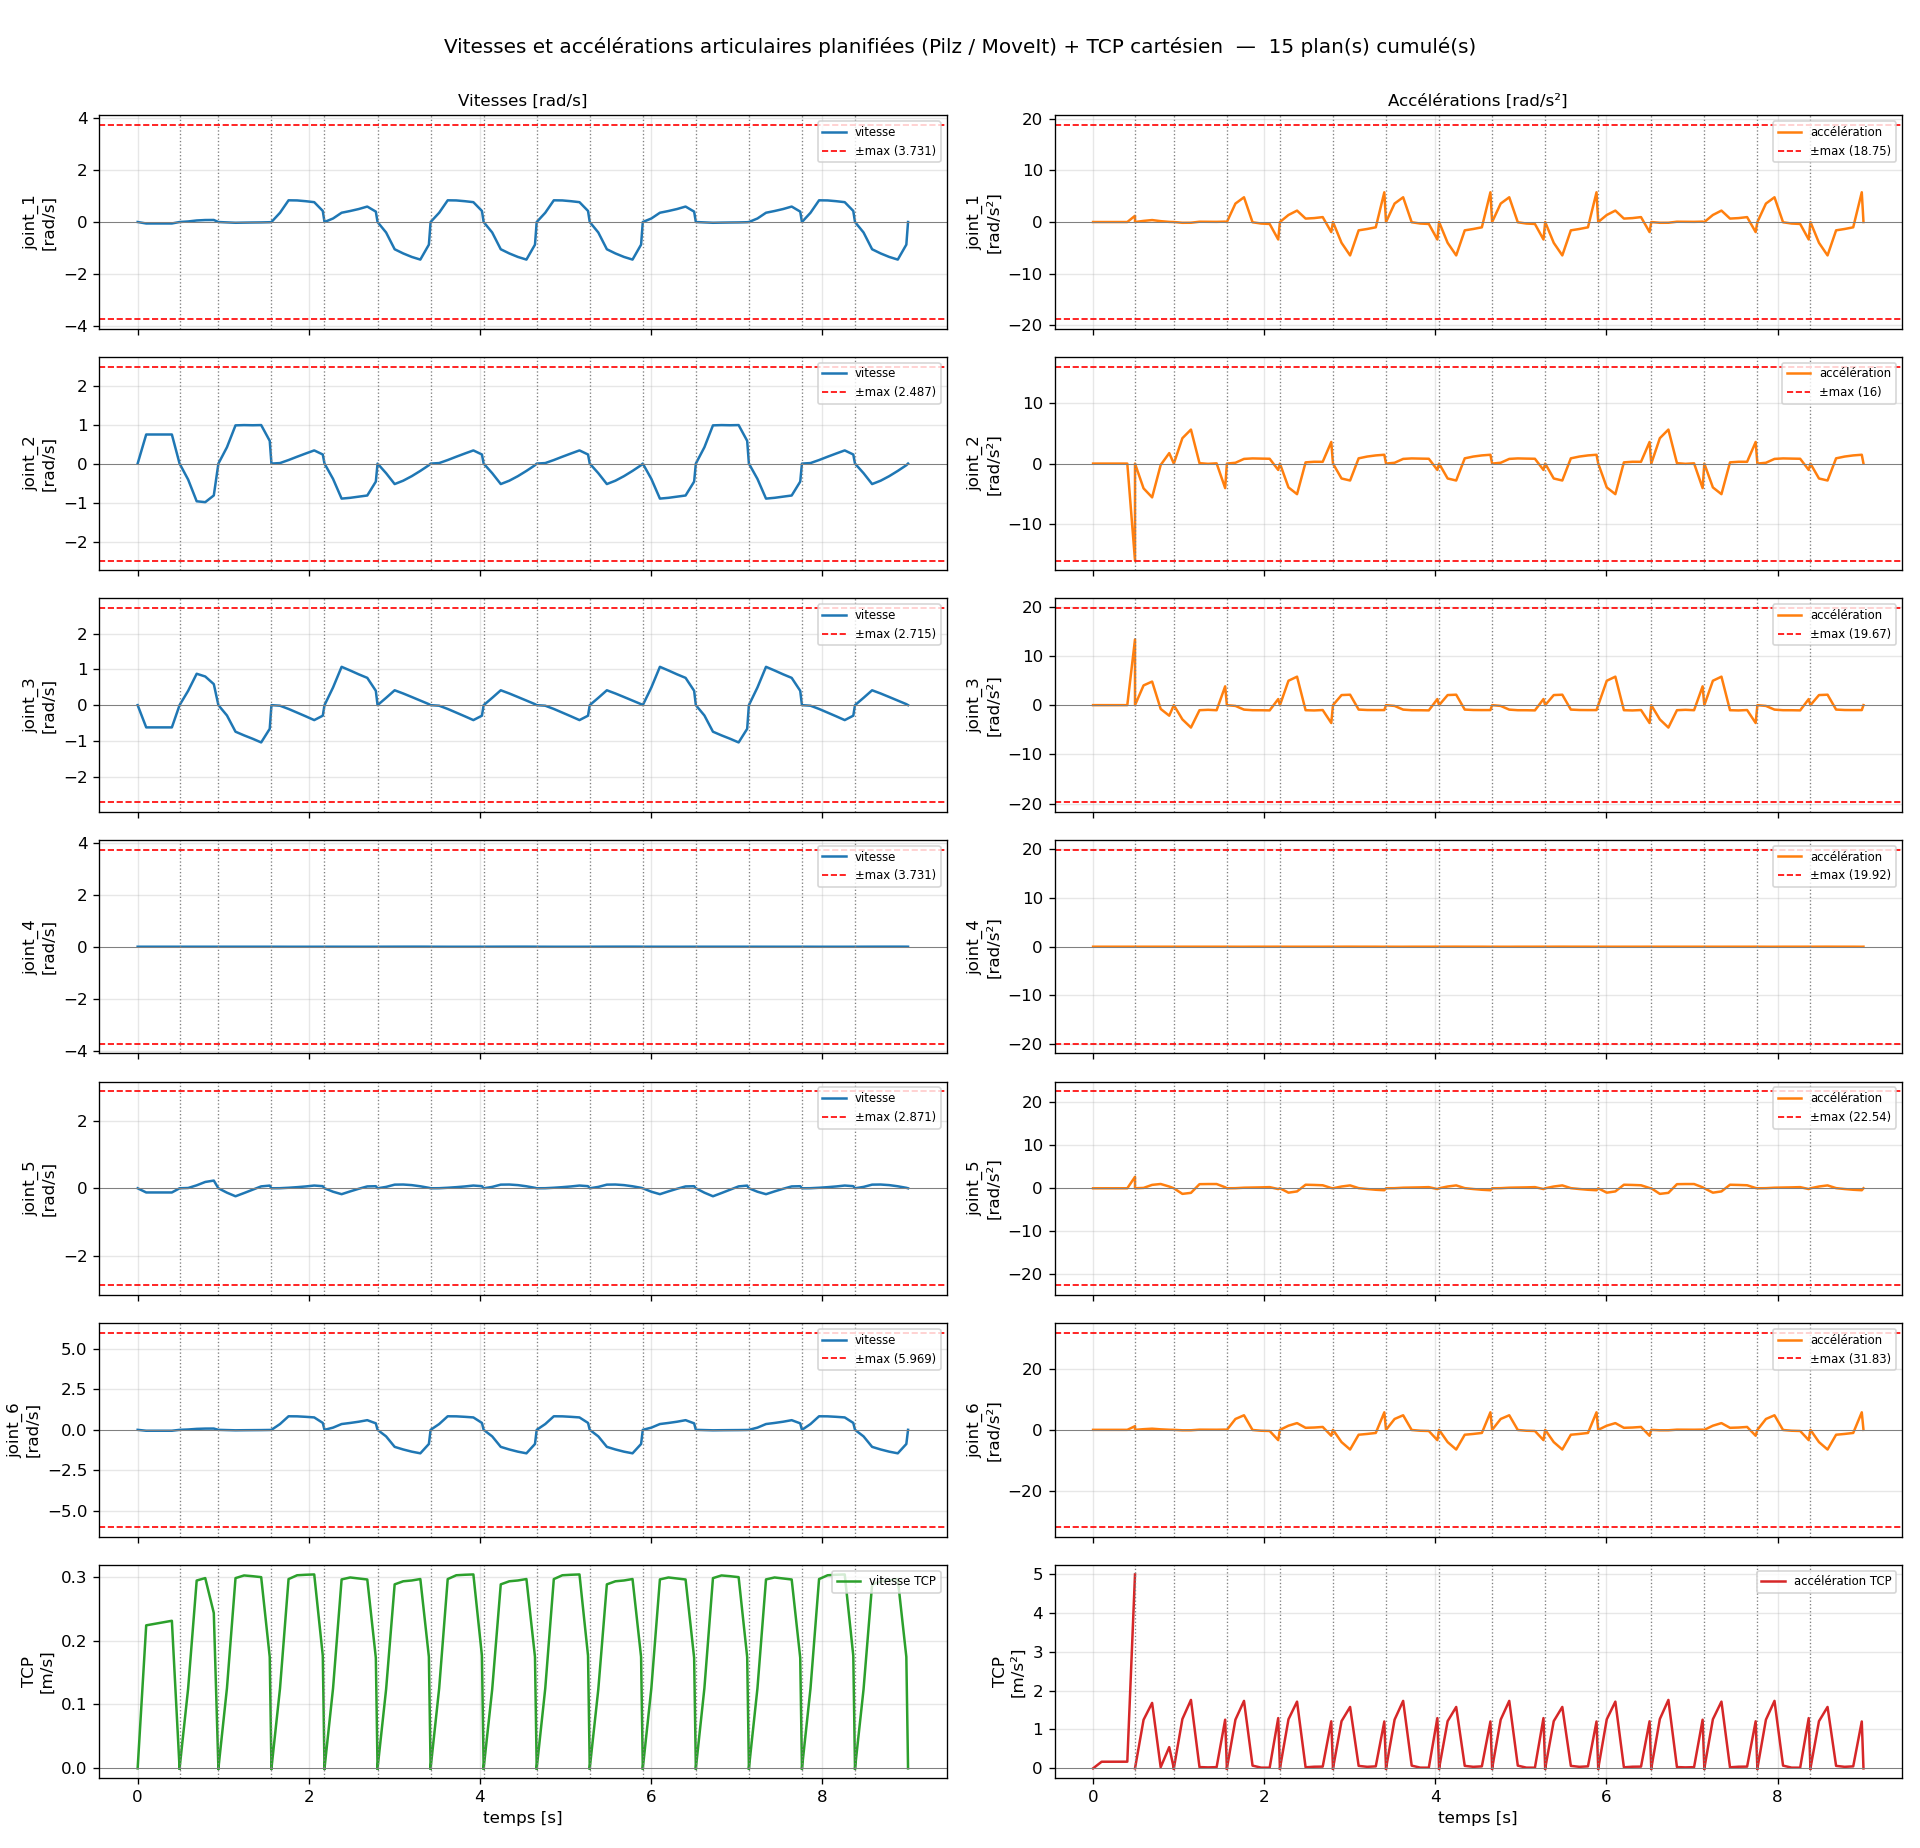
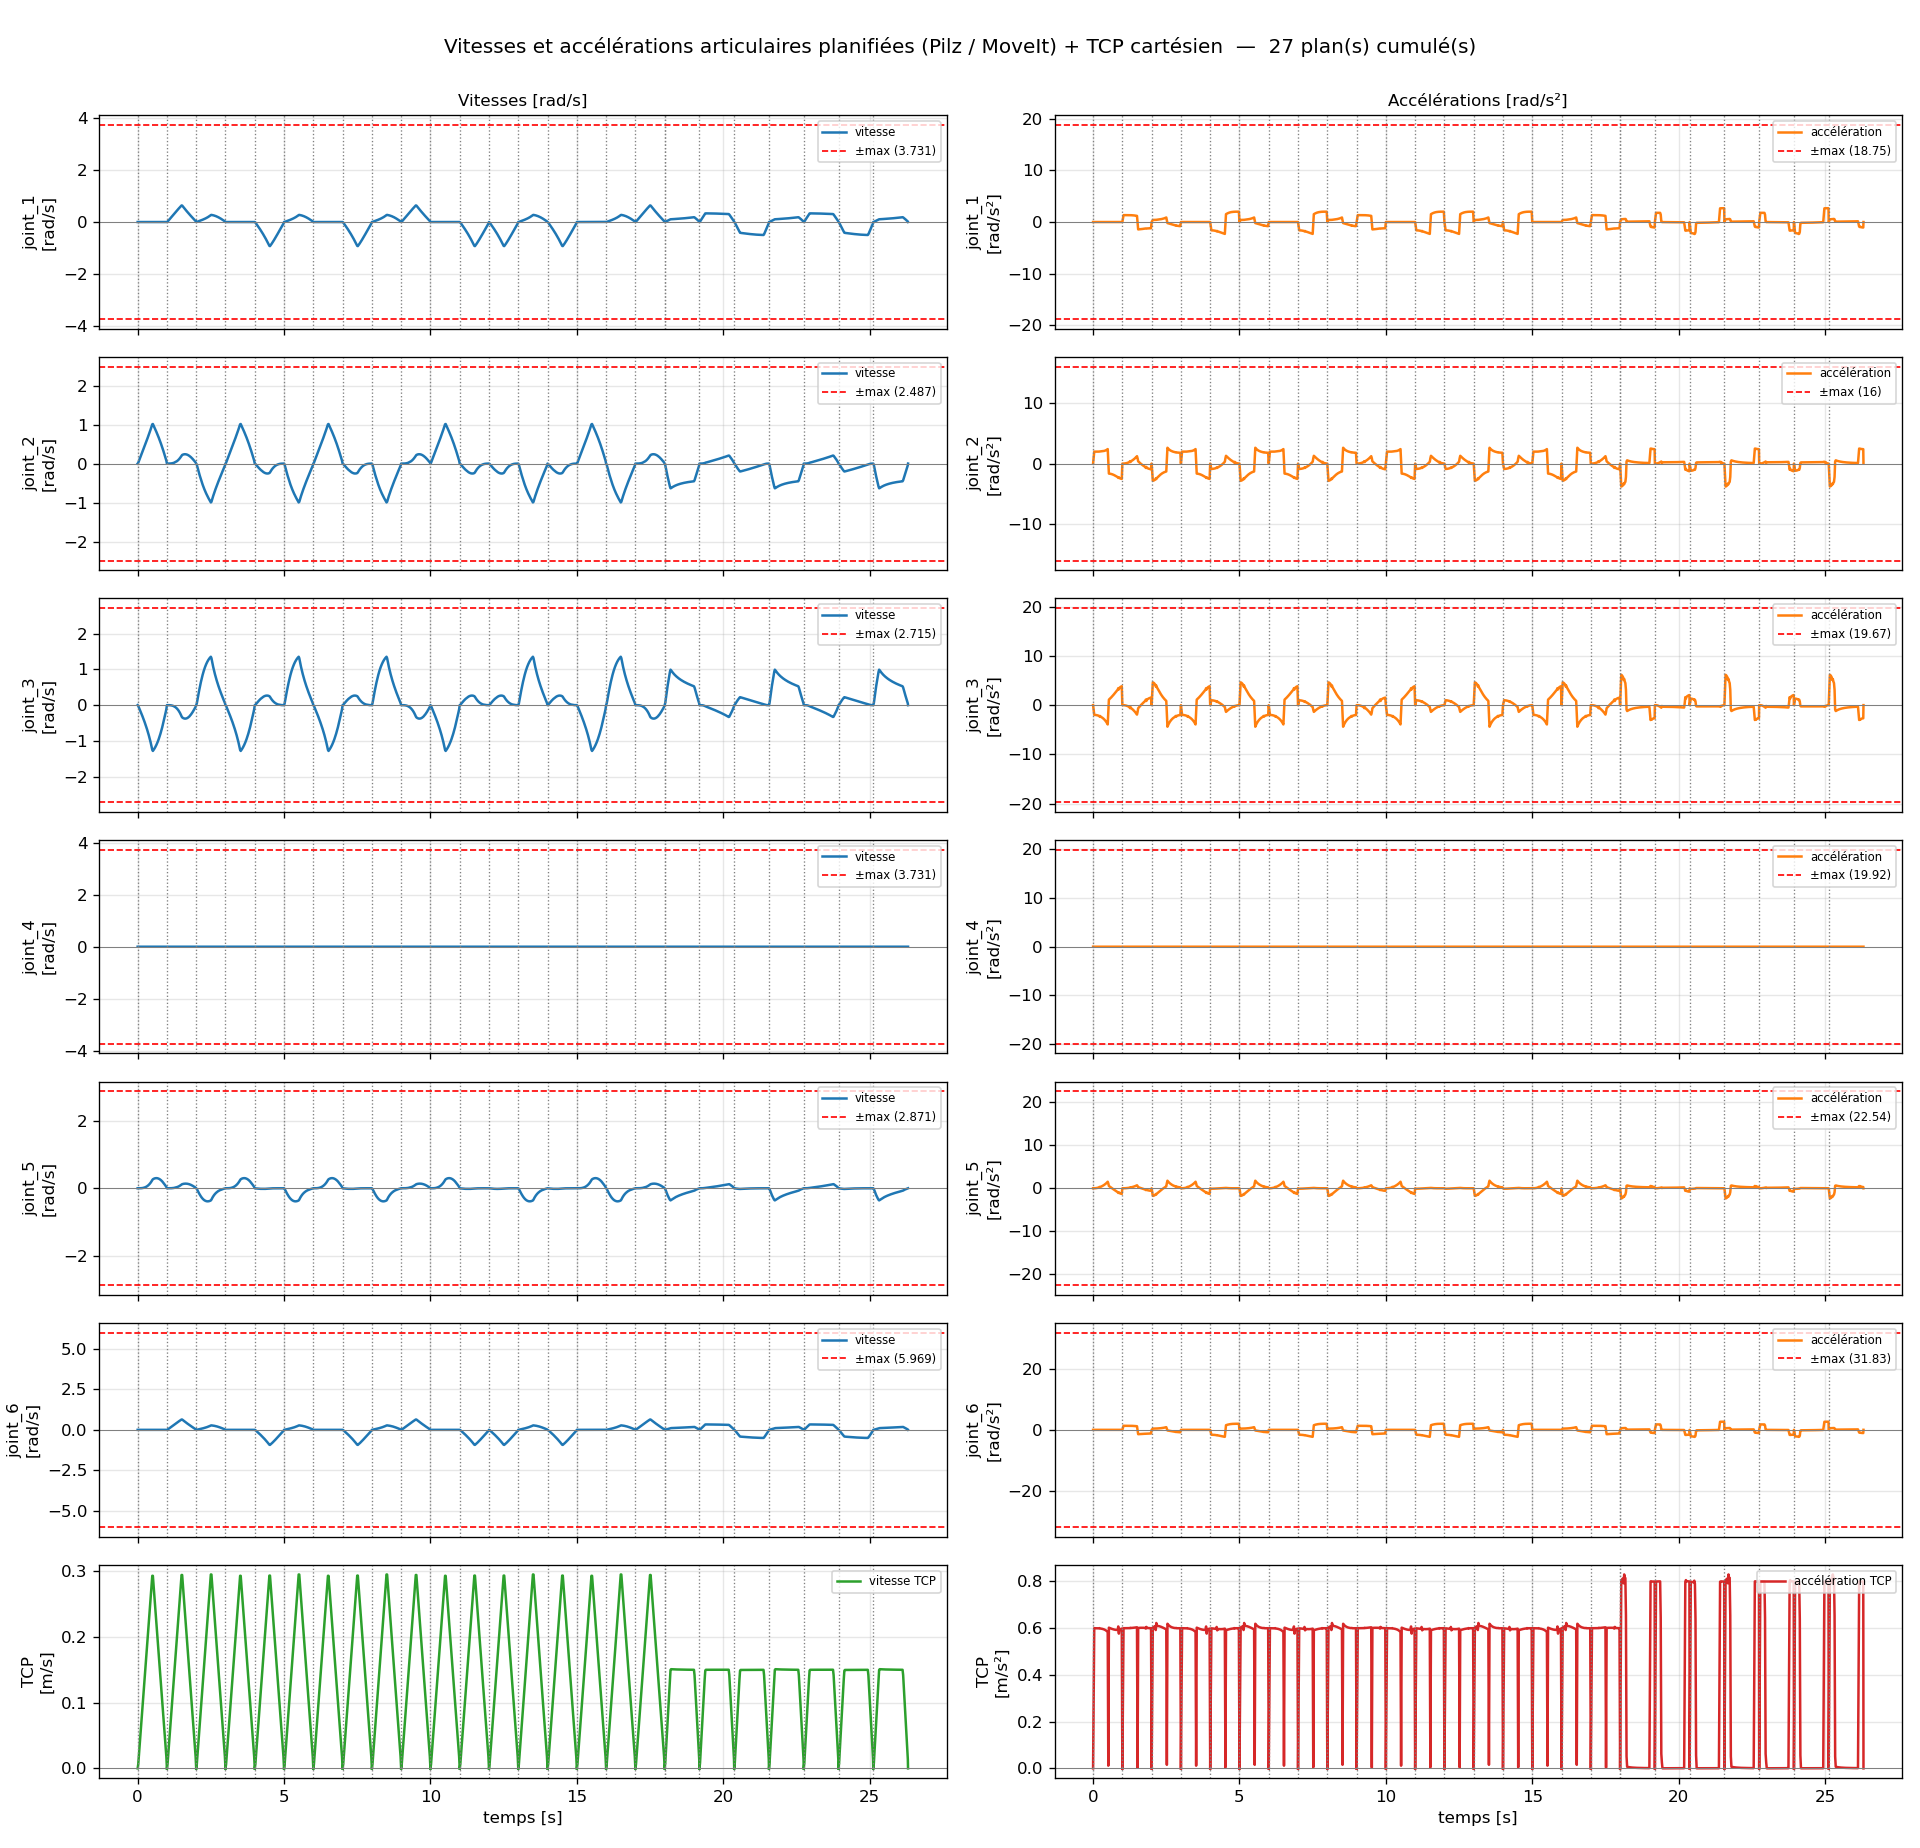
setting pilz limits

diff --git a/denso_ros2_ws/src/motion_control/src/motion_server.cpp b/denso_ros2_ws/src/motion_control/src/motion_server.cpp
@@ -1304,19 +1304,19 @@ namespace motion_control
         RCLCPP_INFO(
             this->get_logger(),
             "[FK_TRACE:%s] trajectory_points=%zu fk_samples=%zu time=%.6fs start=(%.6f, %.6f, %.6f) end=(%.6f, %.6f, %.6f) "
-            "straight=%.6fm path=%.6fm ratio=%.6f max_dev=%.6fm@%zu max_step=%.6fm",
+            "straight=%.6fm path=%.6fm ratio=%.6f max_dev=%.3fmm@%zu max_step=%.3fmm",
             label.c_str(),
             points.size(), positions.size(), total_time,
             start.x(), start.y(), start.z(),
             end.x(), end.y(), end.z(),
             straight_len, path_len, path_ratio,
-            max_dev, max_dev_index, max_step);
+            max_dev*1000, max_dev_index, max_step*1000);
 
         if (path_ratio > 1.02 || max_dev > 0.002) {
             RCLCPP_WARN(
                 this->get_logger(),
-                "[FK_TRACE:%s] Non-straight Cartesian trace suspected: ratio=%.6f, max_dev=%.6fm",
-                label.c_str(), path_ratio, max_dev);
+                "[FK_TRACE:%s] Non-straight Cartesian trace suspected: ratio=%.6f, max_dev=%.3fmm",
+                label.c_str(), path_ratio, max_dev*1000);
         }
     }
 